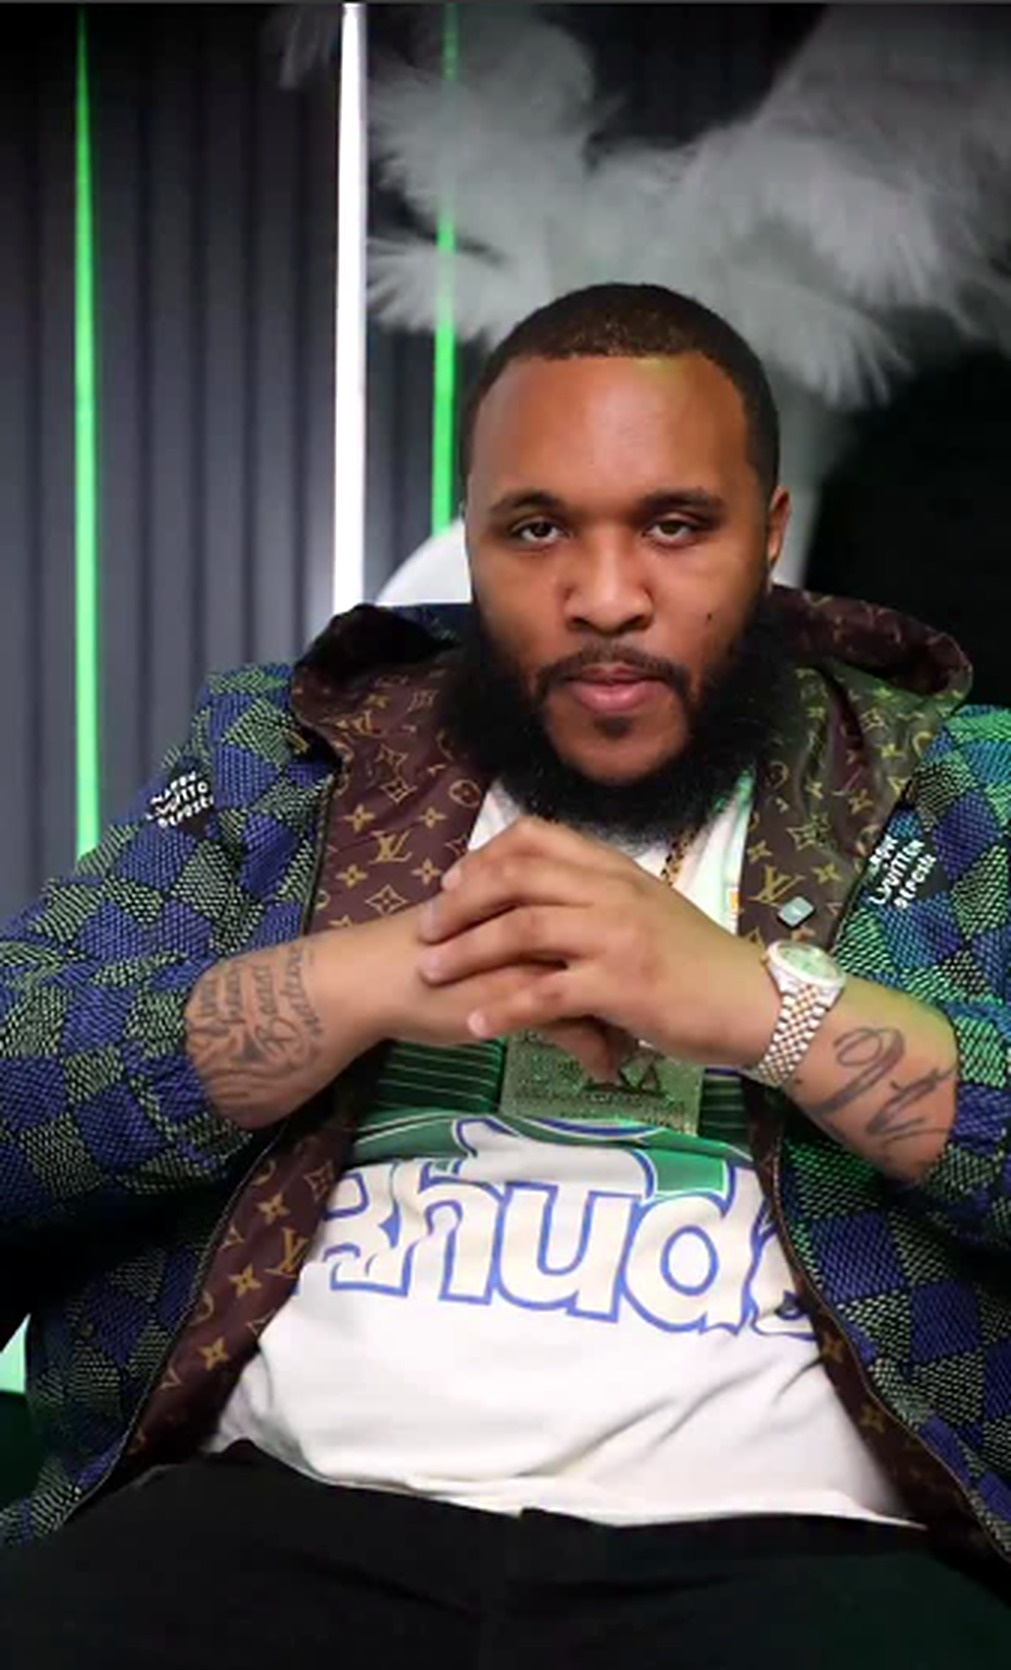
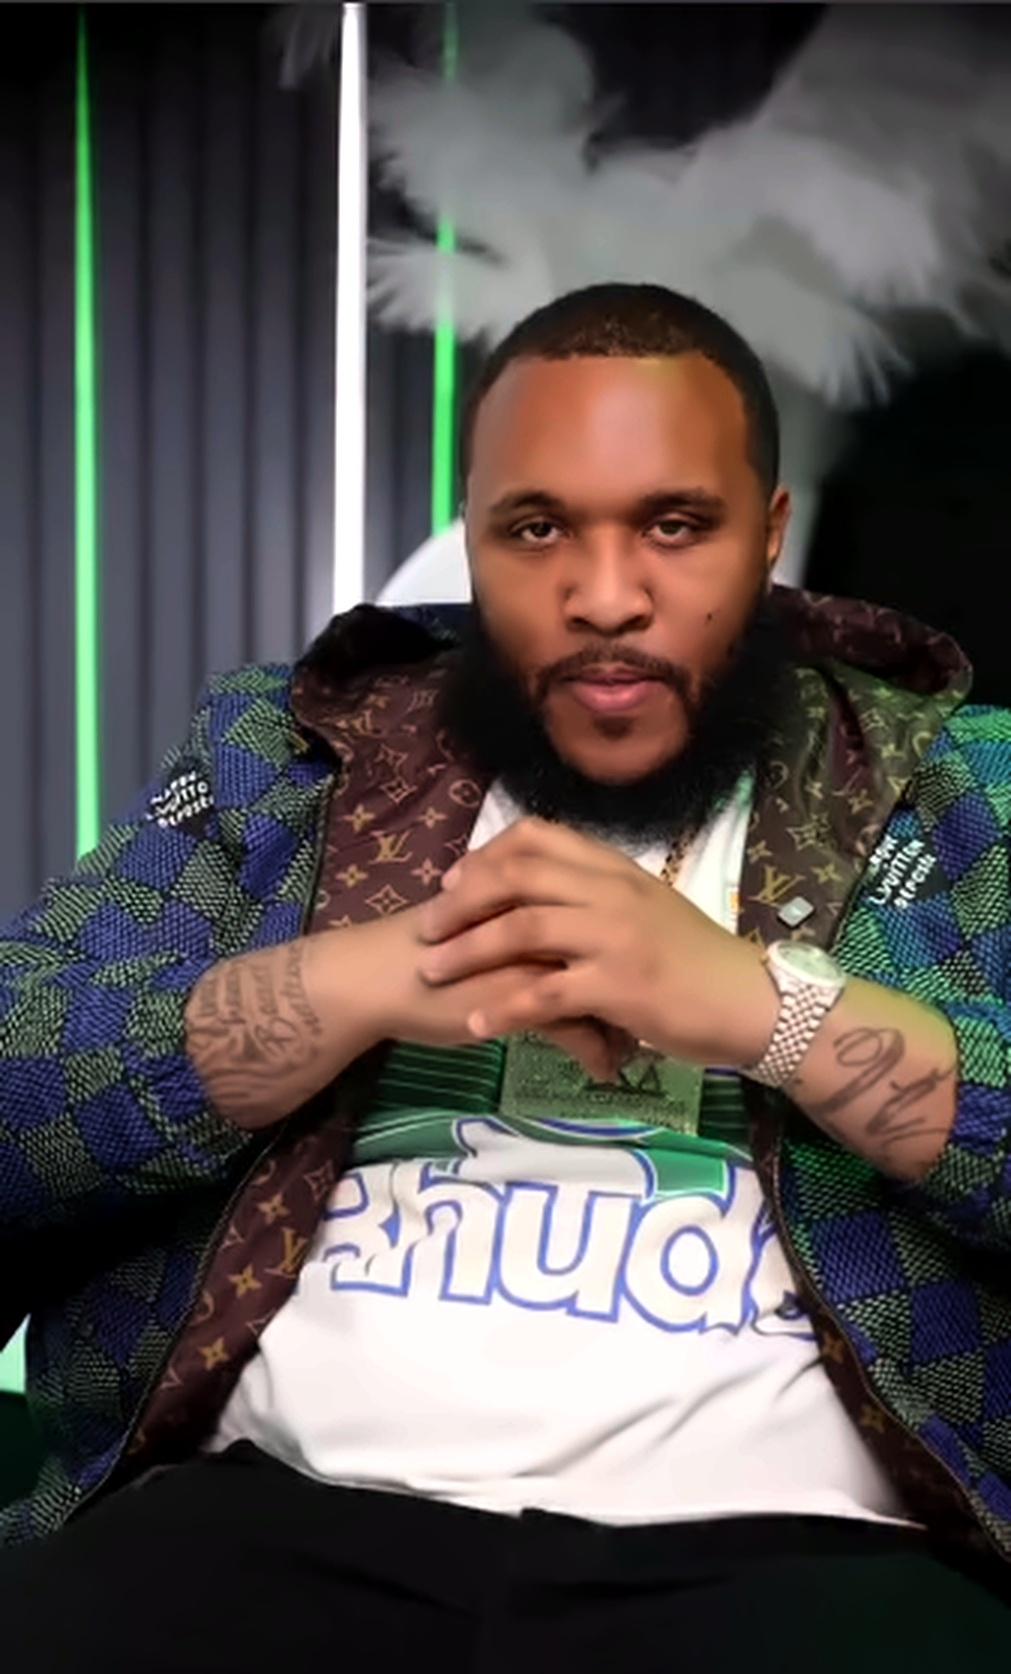
Add files via upload

diff --git a/style.css b/style.css
@@ -18,10 +18,10 @@ html{scroll-behavior:smooth}
 body{
   margin:0;
   background:
-    linear-gradient(180deg, rgba(10,15,12,.90), rgba(10,15,12,.96) 45%, var(--bg) 80%),
-    radial-gradient(1100px 500px at 85% -10%, rgba(22,163,74,.22), transparent 60%),
-    radial-gradient(900px 500px at -10% 10%, rgba(212,175,55,.10), transparent 55%),
-    url("site-bg.jpg") center 18% / cover no-repeat fixed,
+    linear-gradient(180deg, rgba(10,15,12,.42), rgba(10,15,12,.62) 40%, rgba(10,15,12,.88) 65%, var(--bg) 92%),
+    radial-gradient(1100px 500px at 85% -10%, rgba(22,163,74,.18), transparent 60%),
+    radial-gradient(900px 500px at -10% 10%, rgba(212,175,55,.08), transparent 55%),
+    url("site-bg.jpg") center 20% / cover no-repeat fixed,
     var(--bg);
   color:var(--ink);
   font-family:"Inter",-apple-system,BlinkMacSystemFont,"Segoe UI",sans-serif;
